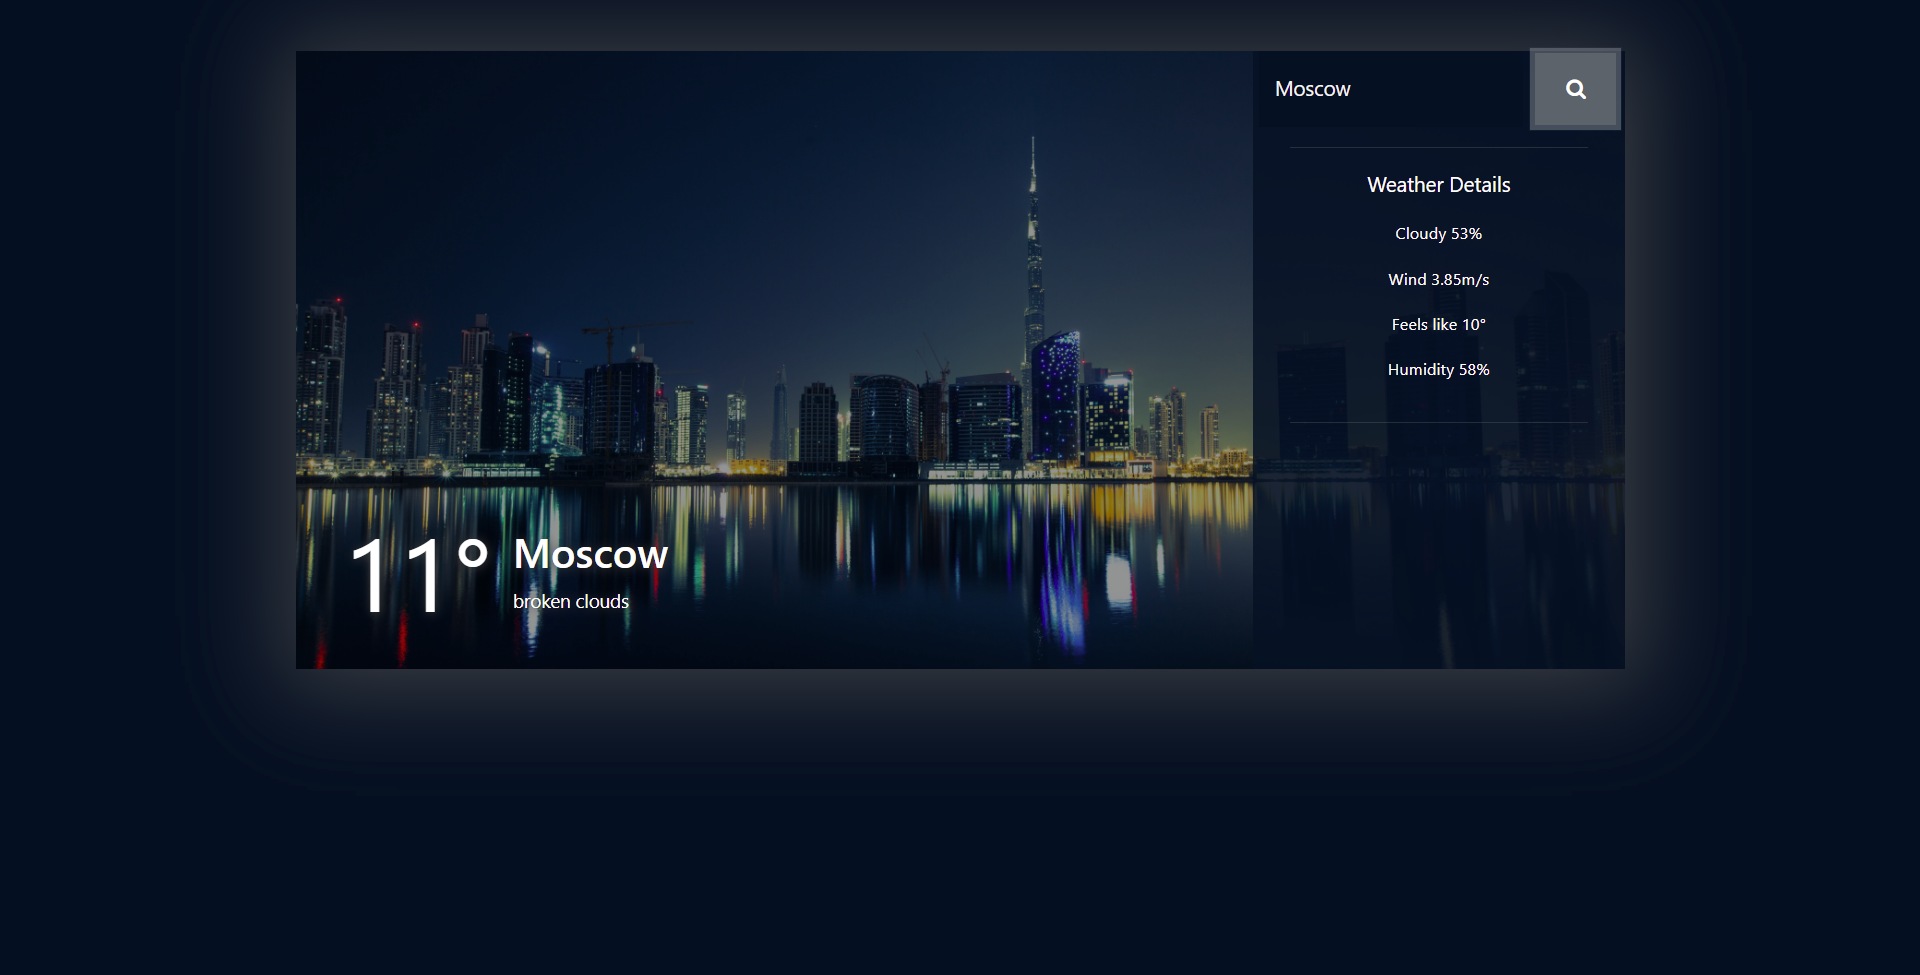
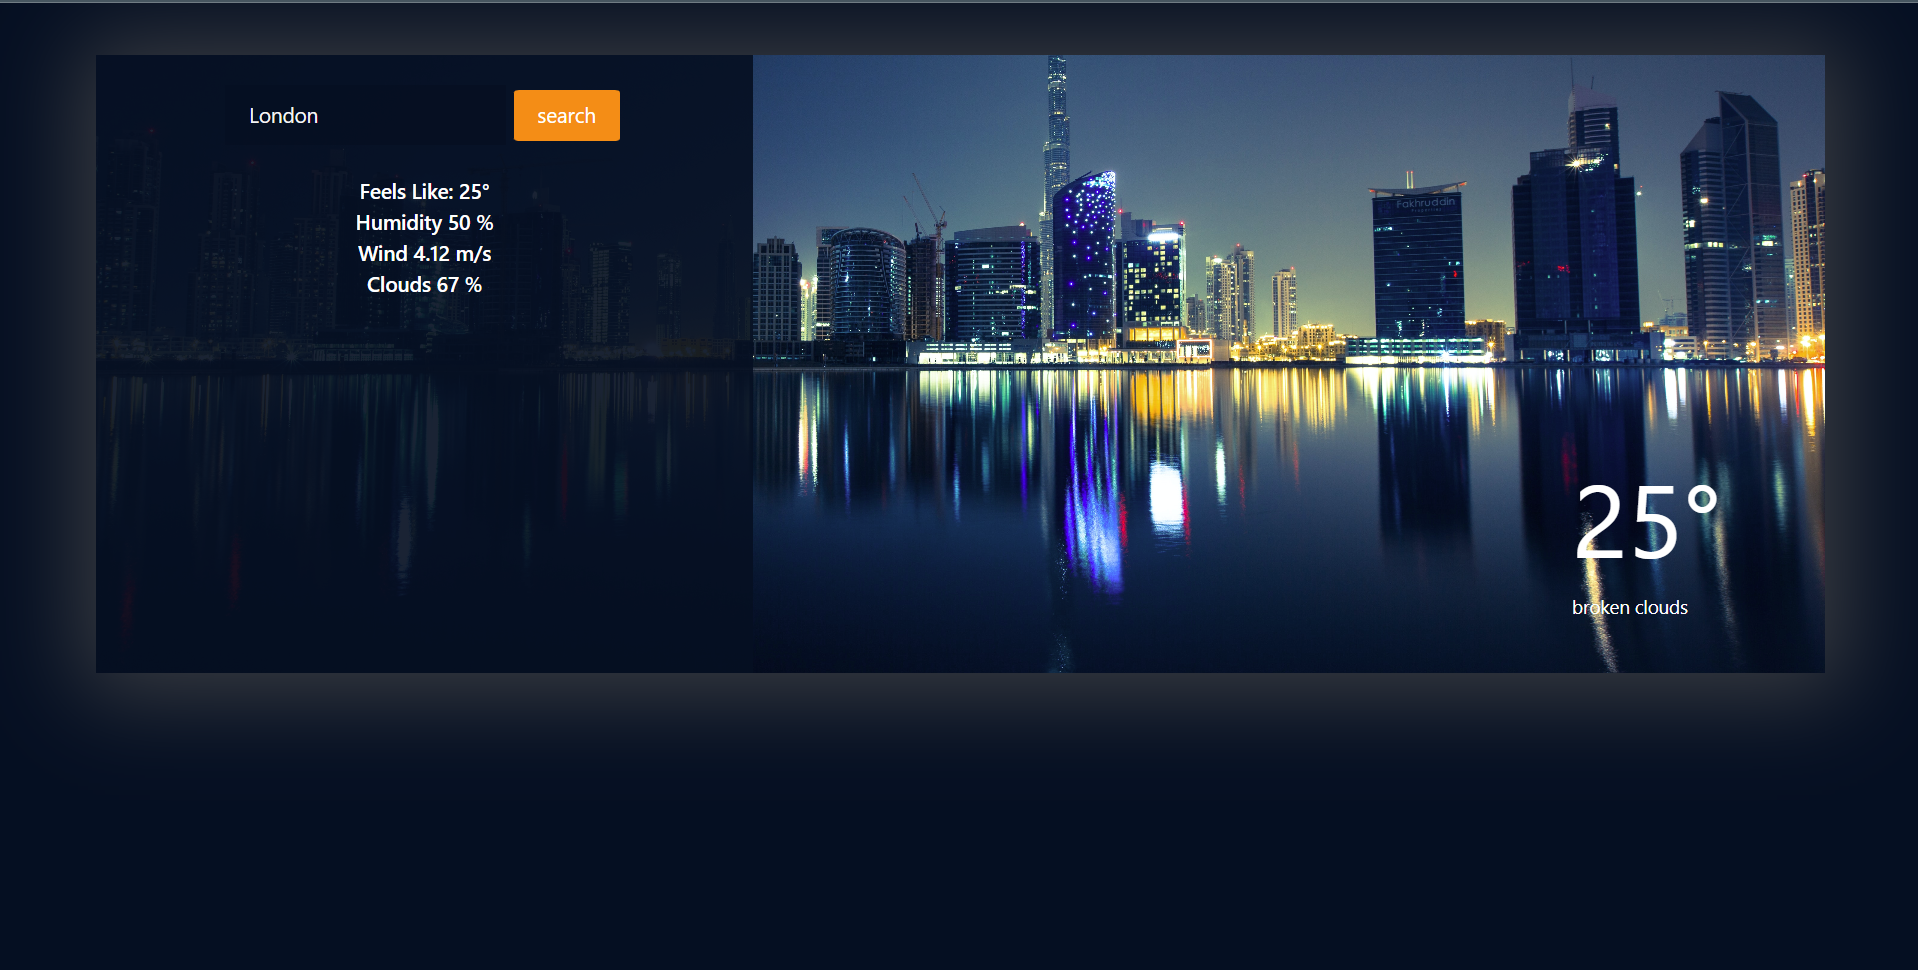
new project and lang

diff --git a/index.html b/index.html
@@ -97,6 +97,10 @@
             <p>Vue JS</p>
         </div>
         <div class="icon">
+            <img src="img/react.svg" alt="">
+            <p>React JS</p>
+        </div>
+        <div class="icon">
             <img src="img/api.svg" alt="">
             <p>API</p>
         </div>
@@ -154,13 +158,13 @@
 <div class="project">
     <img src="img/weatherapp.png" alt="">
     <div class="descr-project">
-        <p class="name-of-project">Simply weather website</p>
-        <p class="tech-of-project">Technologies Used: <span>JS, API, Bootstrap</span></p>
+        <p class="name-of-project">Simply React weather website</p>
+        <p class="tech-of-project">Technologies Used: <span>ReactJS, API, TailwindCSS</span></p>
         <ul>
             <li>You can viewing the weather in any city.</li>
-            <li>some characteristics are also available: <br> humidity, feels like, clouds and wind.</li>
+            <li>Some characteristics are also available: <br> humidity, feels like, clouds and wind.</li>
         </ul>
-        <a target="_blank" href="https://github.com/ktoozdess/weatherproject/tree/main/weather">Repo</a>
+        <a target="_blank" href="https://github.com/ktoozdess/simply-weather-app-react">Repo</a>
 
     </div>
 
